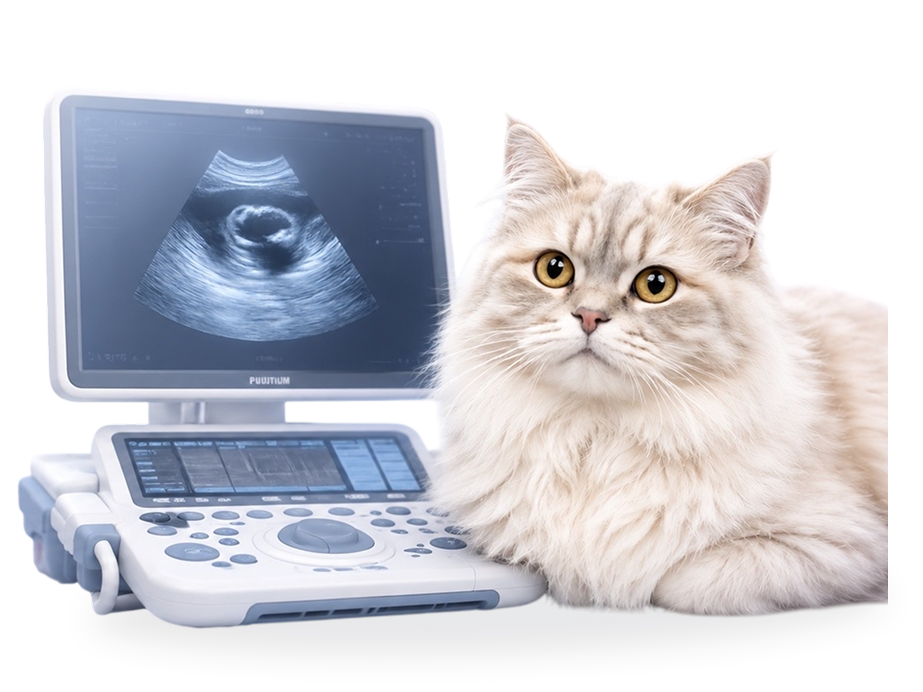
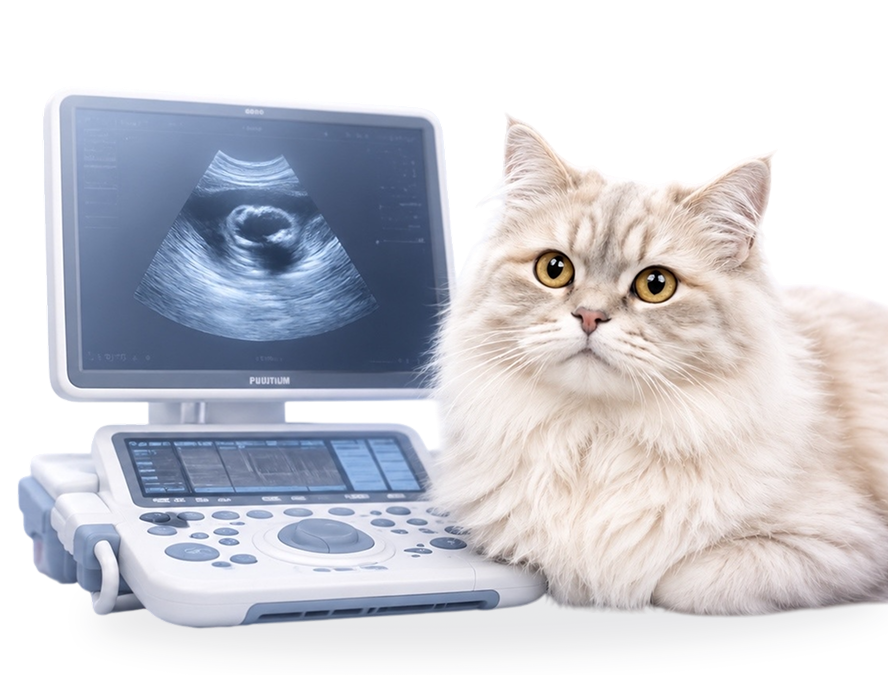
service_page correction

Changed region(s): [[0.0, 0.1244, 1.0, 0.9333]]

diff --git a/service_page.html b/service_page.html
@@ -214,9 +214,7 @@
 								</div>
 
 								<div class="service-head__img">
-									<!-- <img data-src="images/service_banner_img2.png" src="images/img_plug.png" alt="" class="lazyload"> -->
-
-									<img src="images/service_banner_img2.png" alt="">
+									<img src="images/service_banner_img.png" alt="">
 								</div>
 							</div>
 						</div>
@@ -3171,8 +3169,6 @@
 				<section class="call-away _marg">
 					<div class="cont">
 						<div class="call-away__bg _flex">
-							<!-- <div class="help-banner__circle1"></div> -->
-
 							<div class="call-away__coll">
 								<div class="main-title main-title_white">Если состояние <br>ухудшается - звоните сразу!</div>
 

diff --git a/css/styles.css b/css/styles.css
@@ -6237,27 +6237,16 @@ input[type=checkbox]:checked + .checkbox__text::after
 
 .call-away__bg
 {
-	background: #E94E1B;
-	border-radius: 60px;
-
 	justify-content: space-between;
     align-items: stretch;
     align-content: stretch;
+	flex-wrap: nowrap;
 
 	position: relative;
-}
 
-/* .help-banner__circle1 
-{
-    position: absolute;
-    left: 43px;
-    bottom: 59px;
-    width: 47px;
-    height: 47px;
-    background: #fff;
-    filter: blur(50px);
-    border-radius: 50%;
-} */
+	background: #E94E1B url(../images/info-pattern2.png) 50% bottom / 100% auto no-repeat;
+    border-radius: 60px;
+}
 
 .call-away__coll 
 {
